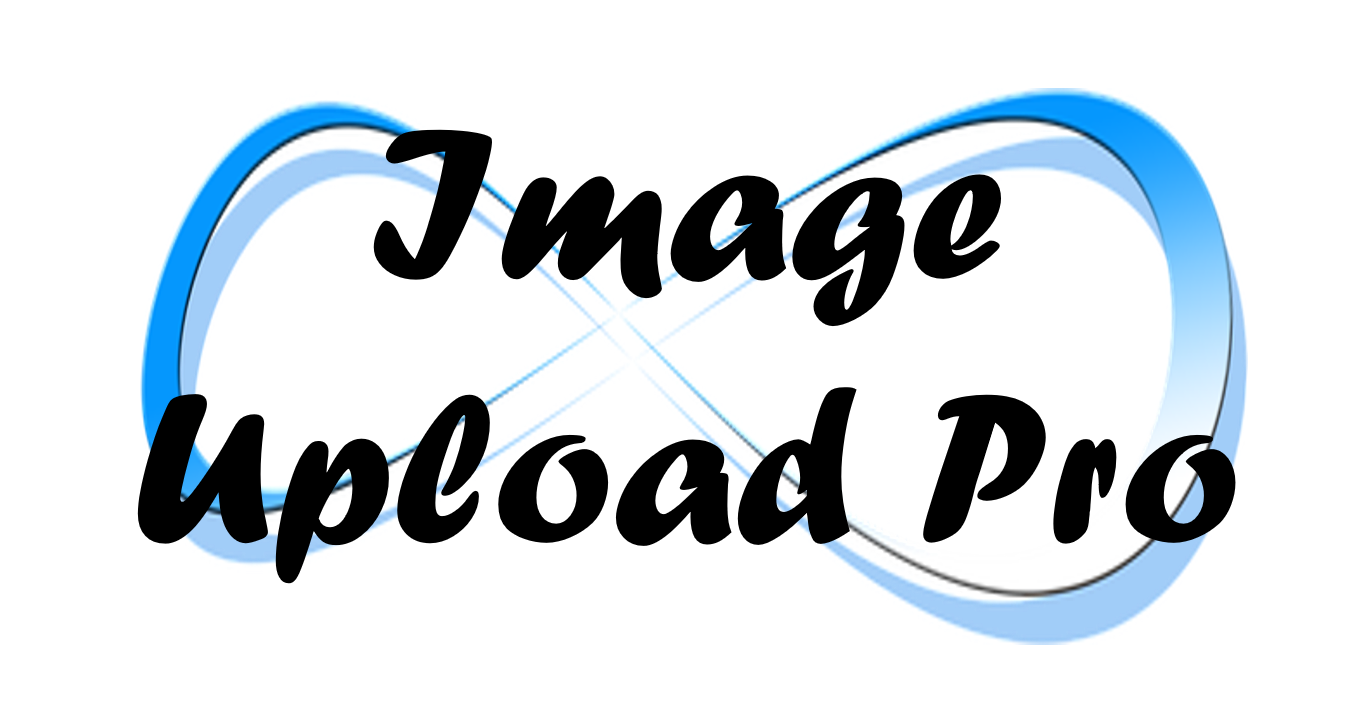
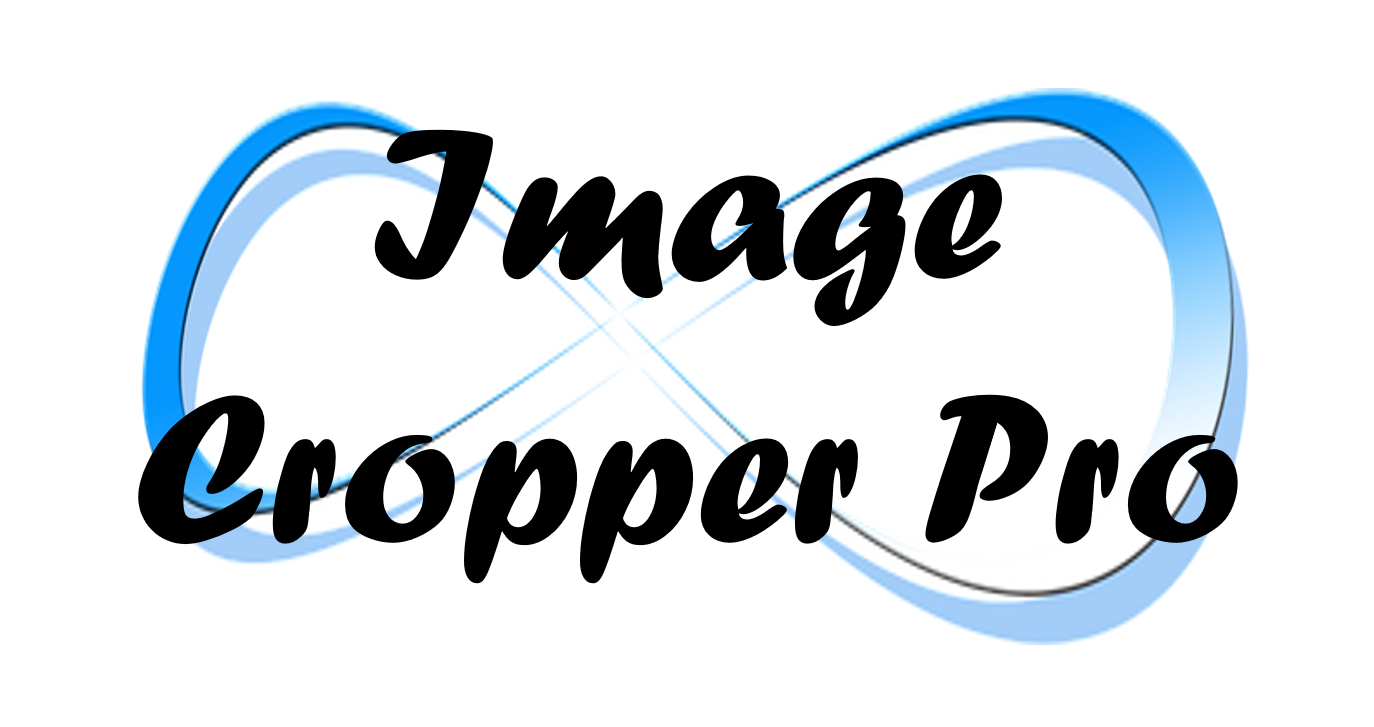
renaming

diff --git a/EndlessImageCropper/README.md b/EndlessImageCropper/README.md
@@ -1,6 +1,6 @@
 # Endless Image Cropper
 
-This is the documentation for ``Endless Image Cropper`` and ``Endless Image Cropper Pro``.
+This is the documentation for the UI components ``Image Cropper`` and ``Image Cropper Pro`` for the [Backendless Full Stack Visual App Development Platform](https://backendless.com).
 
 ![Icon](./assets/Icon.jpg) &nbsp; &nbsp; &nbsp; &nbsp;
 ![IconPro](./assets/IconPro.jpg)
